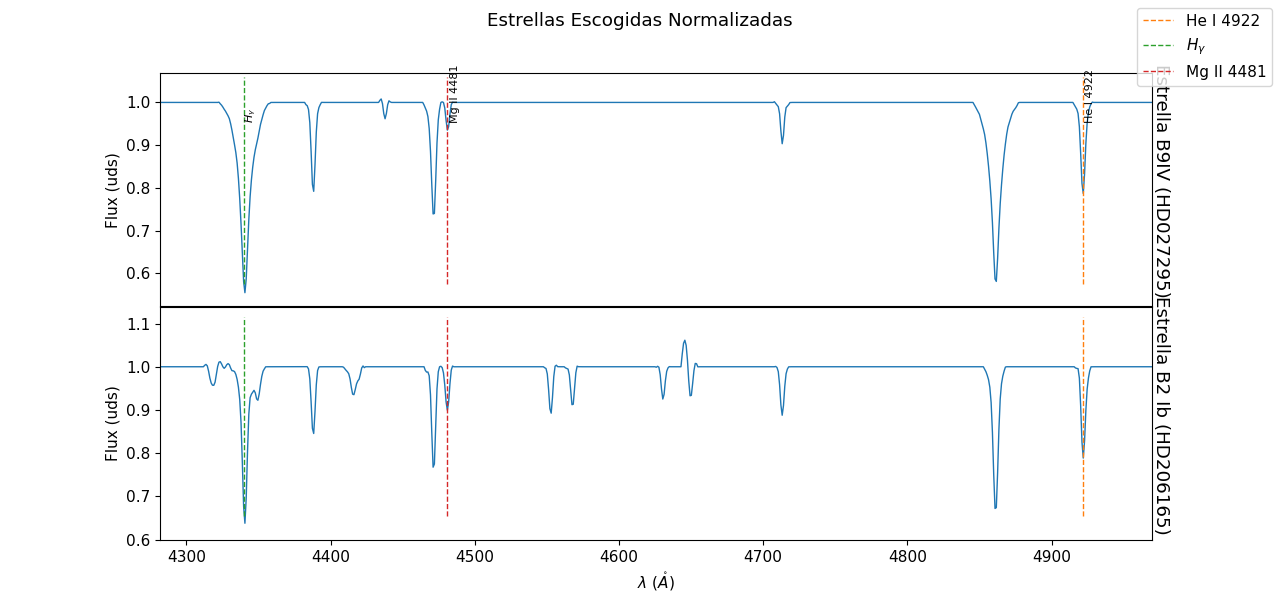
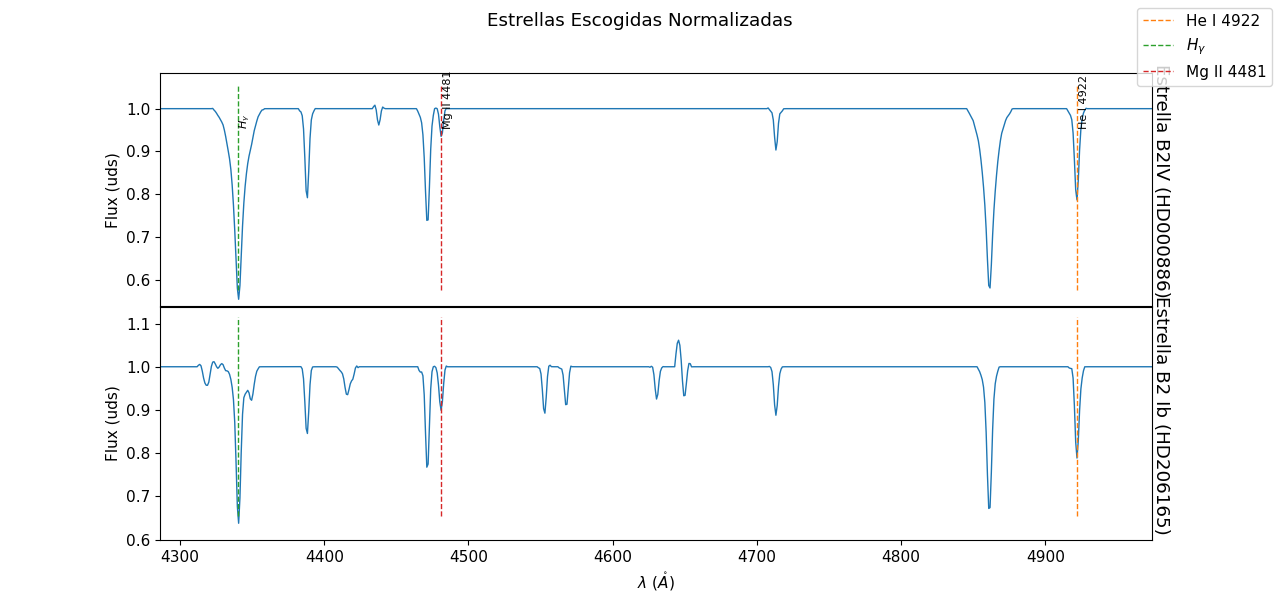
Cambios imagenes

diff --git a/Codigos/Prac3.py b/Codigos/Prac3.py
@@ -29,7 +29,7 @@ medFlux, medLamb = LD.Load_Dat(medB,path = "Practica_3")
 bigFlux,bigLamb = LD.Load_Dat(bigB, path = "Practica_3")
 
 # Los ploteamos para verlos
-SSp.Compare_Spectra([medFlux,bigFlux],[medLamb,bigLamb], NameArr = ["Estrella B9IV (HD027295)", "Estrella B2 Ib (HD206165)"], title = "Estrellas Escogidas Normalizadas", lines = lines)
+SSp.Compare_Spectra([medFlux,bigFlux],[medLamb,bigLamb], NameArr = ["Estrella B2IV (HD000886)", "Estrella B2 Ib (HD206165)"], title = "Estrellas Escogidas Normalizadas", lines = lines)
 """
 SSp.Lined_Spectra(bigFlux, bigLamb, lines = lines, title = "Espectro de la estrella HD206165 (B2Ib)")
 SSp.Lined_Spectra(medFlux,medLamb,lines = lines, title = "Espectro de la estrella  HD027295 (B9IV)")
